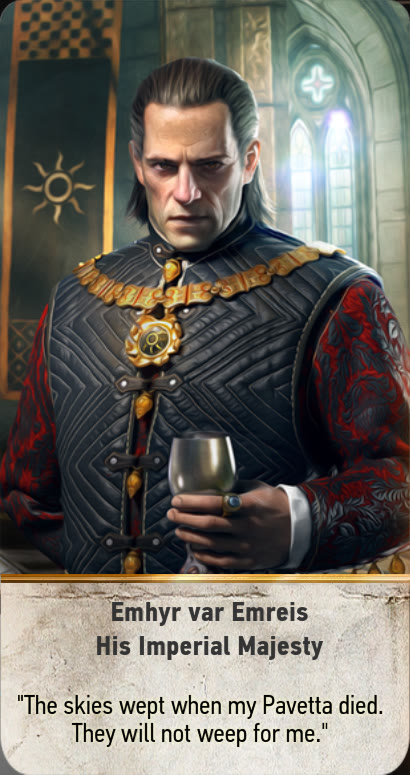
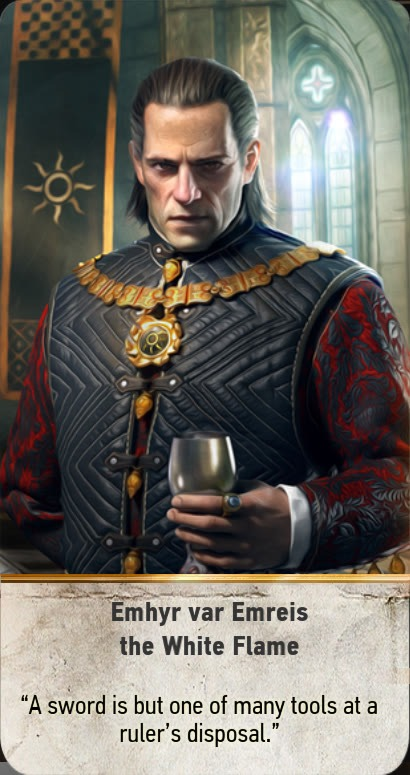
Keep Roach, and fix leader art and card text for Francesca and Emhyr
- Roach and Geralt/Ciri's Roach muster are back: Roach was added to
  Gwent later in the game, so it stays
- Francesca and Emhyr leaders now use the art that belongs to their
  ability in The Witcher 3 (Queen of Dol Blathanna: bronze, the
  Beautiful: copper, Daisy of the Valley: silver, Pureblood Elf: gold;
  Emperor of Nilfgaard: bronze, the White Flame: copper)
- The name and quote printed on the large leader images for Foltest,
  Emhyr, Eredin and Francesca now match the card they belong to

Claude-Session: https://claude.ai/code/session_01CeoM3BEsM39b8W2N7YHogM

diff --git a/cards.js b/cards.js
@@ -3,12 +3,12 @@ var card_dict = JSON.parse(
 + '{ "name": "Mysterious Elf", "id": "142", "deck": "neutral", "row": "close", "strength": "0", "ability": "hero spy", "filename": "mysterious_elf", "count": "1" }'
 + ', { "name": "Decoy", "id": "1", "deck": "special", "row": "", "strength": "", "ability": "decoy", "filename": "decoy", "count": "3" }' 
 + ', { "name": "Biting Frost", "id": "4", "deck": "weather", "row": "", "strength": "", "ability": "frost", "filename": "frost", "count": "3" }'
-+ ', { "name": "Cirilla Fiona Elen Riannon", "id": "139", "deck": "neutral", "row": "close", "strength": "15", "ability": "hero", "filename": "ciri", "count": "1" }'
++ ', { "name": "Cirilla Fiona Elen Riannon", "id": "139", "deck": "neutral", "row": "close", "strength": "15", "ability": "hero muster", "filename": "ciri", "count": "1", "muster": "Roach" }'
 + ', { "name": "Clear Weather", "id": "7", "deck": "weather", "row": "", "strength": "", "ability": "clear", "filename": "clear", "count": "3" }'
 + ', { "name": "Commander\'s Horn", "id": "2", "deck": "special", "row": "", "strength": "", "ability": "horn", "filename": "horn", "count": "3" }'
 + ', { "name": "Dandelion", "id": "11", "deck": "neutral", "row": "close", "strength": "2", "ability": "horn", "filename": "dandelion", "count": "1" }'
 + ', { "name": "Emiel Regis Rohellec Terzieff", "id": "", "deck": "neutral", "row": "close", "strength": "5", "ability": "", "filename": "emiel", "count": "1" }'
-+ ', { "name": "Geralt of Rivia", "id": "138", "deck": "neutral", "row": "close", "strength": "15", "ability": "hero", "filename": "geralt", "count": "1" }'
++ ', { "name": "Geralt of Rivia", "id": "138", "deck": "neutral", "row": "close", "strength": "15", "ability": "hero muster", "filename": "geralt", "count": "1", "muster": "Roach" }'
 + ', { "name": "Impenetrable Fog", "id": "5", "deck": "weather", "row": "", "strength": "", "ability": "fog", "filename": "fog", "count": "3" }'
 + ', { "name": "Scorch", "id": "3", "deck": "special", "row": "", "strength": "", "ability": "scorch", "filename": "scorch", "count": "3" }'
 + ', { "name": "Torrential Rain", "id": "6", "deck": "weather", "row": "", "strength": "", "ability": "rain", "filename": "rain", "count": "3" }'
@@ -57,8 +57,8 @@ var card_dict = JSON.parse(
 + ', { "name": "Trebuchet", "id": "77", "deck": "realms", "row": "siege", "strength": "6", "ability": "", "filename": "trebuchet", "count": "1" }'
 + ', { "name": "Trebuchet", "id": "78", "deck": "realms", "row": "siege", "strength": "6", "ability": "", "filename": "trebuchet_1", "count": "1" }'
 + ', { "name": "Emhyr var Emreis - His Imperial Majesty", "id": "1", "deck": "nilfgaard", "row": "leader", "strength": "", "ability": "emhyr_imperial", "filename": "emhyr_gold", "count": "1" }'
-+ ', { "name": "Emhyr var Emreis - Emperor of Nilfgaard", "id": "2", "deck": "nilfgaard", "row": "leader", "strength": "", "ability": "emhyr_emperor", "filename": "emhyr_copper", "count": "1" }'
-+ ', { "name": "Emhyr var Emreis - the White Flame", "id": "3", "deck": "nilfgaard", "row": "leader", "strength": "", "ability": "emhyr_whiteflame", "filename": "emhyr_bronze", "count": "1" }'
++ ', { "name": "Emhyr var Emreis - Emperor of Nilfgaard", "id": "2", "deck": "nilfgaard", "row": "leader", "strength": "", "ability": "emhyr_emperor", "filename": "emhyr_bronze", "count": "1" }'
++ ', { "name": "Emhyr var Emreis - the White Flame", "id": "3", "deck": "nilfgaard", "row": "leader", "strength": "", "ability": "emhyr_whiteflame", "filename": "emhyr_copper", "count": "1" }'
 + ', { "name": "Emhyr var Emreis - The Relentless", "id": "4", "deck": "nilfgaard", "row": "leader", "strength": "", "ability": "emhyr_relentless", "filename": "emhyr_silver", "count": "1" }'
 + ', { "name": "Emhyr var Emreis - Invader of the North", "id": "", "deck": "nilfgaard", "row": "leader", "strength": "", "ability": "emhyr_invader", "filename": "emhyr_invader_of_the_north", "count": "1" }'
 + ', { "name": "Albrich", "id": "68", "deck": "nilfgaard", "row": "ranged", "strength": "2", "ability": "", "filename": "albrich", "count": "1" }'
@@ -139,10 +139,10 @@ var card_dict = JSON.parse(
 + ', { "name": "Werewolf", "id": "22", "deck": "monsters", "row": "close", "strength": "5", "ability": "", "filename": "werewolf", "count": "1" }'
 + ', { "name": "Wyvern", "id": "40", "deck": "monsters", "row": "ranged", "strength": "2", "ability": "", "filename": "wyvern", "count": "1" }'
 + ', { "name": "Toad", "id": "", "deck": "monsters", "row": "ranged", "strength": "7", "ability": "scorch_r", "filename": "toad", "count": "1" }'
-+ ', { "name": "Francesca Findabair - Queen of Dol Blathanna", "id": "13", "deck": "scoiatael", "row": "leader", "strength": "", "ability": "francesca_queen", "filename": "francesca_silver", "count": "1" }'
-+ ', { "name": "Francesca Findabair - the Beautiful", "id": "14", "deck": "scoiatael", "row": "leader", "strength": "", "ability": "francesca_beautiful", "filename": "francesca_gold", "count": "1" }'
-+ ', { "name": "Francesca Findabair - Daisy of the Valley", "id": "15", "deck": "scoiatael", "row": "leader", "strength": "", "ability": "francesca_daisy", "filename": "francesca_copper", "count": "1" }'
-+ ', { "name": "Francesca Findabair - Pureblood Elf", "id": "16", "deck": "scoiatael", "row": "leader", "strength": "", "ability": "francesca_pureblood", "filename": "francesca_bronze", "count": "1" }'
++ ', { "name": "Francesca Findabair - Queen of Dol Blathanna", "id": "13", "deck": "scoiatael", "row": "leader", "strength": "", "ability": "francesca_queen", "filename": "francesca_bronze", "count": "1" }'
++ ', { "name": "Francesca Findabair - the Beautiful", "id": "14", "deck": "scoiatael", "row": "leader", "strength": "", "ability": "francesca_beautiful", "filename": "francesca_copper", "count": "1" }'
++ ', { "name": "Francesca Findabair - Daisy of the Valley", "id": "15", "deck": "scoiatael", "row": "leader", "strength": "", "ability": "francesca_daisy", "filename": "francesca_silver", "count": "1" }'
++ ', { "name": "Francesca Findabair - Pureblood Elf", "id": "16", "deck": "scoiatael", "row": "leader", "strength": "", "ability": "francesca_pureblood", "filename": "francesca_gold", "count": "1" }'
 + ', { "name": "Francesca Findabair - Hope of the Aen Seidhe", "id": "", "deck": "scoiatael", "row": "leader", "strength": "", "ability": "francesca_hope", "filename": "francesca_hope_of_the_aen_seidhe", "count": "1" }'
 + ', { "name": "Ciaran aep Easnillien", "id": "122", "deck": "scoiatael", "row": "agile", "strength": "3", "ability": "", "filename": "ciaran", "count": "1" }'
 + ', { "name": "Barclay Els", "id": "106", "deck": "scoiatael", "row": "agile", "strength": "6", "ability": "", "filename": "barclay", "count": "1" }'
@@ -214,8 +214,7 @@ var card_dict = JSON.parse(
 + ', { "name": "Crach an Craite", "id": "", "deck": "skellige", "row": "leader", "strength": "", "ability": "crach_an_craite", "filename": "crach_an_craite", "count": "0" }'
 + ', { "name": "King Bran", "id": "", "deck": "skellige", "row": "leader", "strength": "", "ability": "king_bran", "filename": "king_bran", "count": "0" }'
 + ', { "name": "Schirru", "id": "", "deck": "scoiatael", "row": "siege", "strength": "8", "ability": "scorch_s", "filename": "schirru", "count": "1" }'
-// Roach is not a Witcher 3 card; kept with count 0 so the indices of later cards (used by saved decks) stay the same
-+ ', { "name": "Roach", "id": "", "deck": "neutral", "row": "close", "strength": "3", "ability": "", "filename": "roach", "count": "0" }'
++ ', { "name": "Roach", "id": "", "deck": "neutral", "row": "close", "strength": "3", "ability": "", "filename": "roach", "count": "1" }'
 + ', { "name": "Ballista", "id": "", "deck": "realms", "row": "siege", "strength": "6", "ability": "", "filename": "ballista_1", "count": "1" }'
 + ']'
 );

diff --git a/decks.js b/decks.js
@@ -1,8 +1,8 @@
 let premade_deck = [
-	 '{"faction":"realms","leader":24,"cards":[[5,1],[1,3],[2,1],[3,1],[8,1],[33,1],[34,1],[39,1],[51,1],[29,2],[12,1],[14,1],[15,1],[27,1],[17,1],[45,1],[54,1],[55,1],[30,3],[32,1],[41,1],[28,3],[19,3],[47,1],[6,1],[18,1],[49,1],[0,1]]}'
-	,'{"faction":"realms","leader":24,"cards":[[5,1],[1,3],[2,1],[4,1],[9,1],[11,1],[3,1],[8,1],[33,1],[34,1],[39,1],[51,1],[29,2],[12,1],[14,1],[15,1],[27,1],[17,1],[45,1],[54,1],[55,1],[30,3],[32,1],[41,1],[28,3],[19,3],[47,1],[6,1],[18,1],[49,1],[0,1]]}'
-	,'{"faction":"nilfgaard","leader":59,"cards":[[5,1],[1,3],[10,1],[2,1],[4,1],[9,1],[11,1],[3,1],[8,1],[63,1],[64,1],[70,1],[73,1],[75,1],[84,1],[81,1],[14,1],[15,1],[17,1],[90,1],[91,1],[19,3],[88,1],[71,4],[6,1],[18,1],[67,1],[68,1],[0,1],[83,1]]}'
-	,'{"faction":"nilfgaard","leader":58,"cards":[[5,1],[1,3],[10,2],[4,1],[9,1],[11,1],[3,1],[8,1],[63,1],[64,1],[70,1],[73,1],[75,1],[14,1],[15,1],[62,1],[65,1],[69,1],[17,1],[13,1],[90,1],[91,1],[88,1],[71,4],[6,1],[67,1],[68,1],[20,1],[0,1],[83,1]]}'
+	 '{"faction":"realms","leader":24,"cards":[[5,1],[1,3],[2,1],[3,1],[8,1],[33,1],[34,1],[39,1],[51,1],[29,2],[12,1],[14,1],[15,1],[27,1],[17,1],[45,1],[54,1],[55,1],[30,3],[32,1],[41,1],[28,3],[19,3],[47,1],[6,1],[18,1],[49,1],[0,1],[214,1]]}'
+	,'{"faction":"realms","leader":24,"cards":[[5,1],[1,3],[2,1],[4,1],[9,1],[11,1],[3,1],[8,1],[33,1],[34,1],[39,1],[51,1],[29,2],[12,1],[14,1],[15,1],[27,1],[17,1],[45,1],[54,1],[55,1],[30,3],[32,1],[41,1],[28,3],[19,3],[47,1],[6,1],[18,1],[49,1],[0,1],[214,1]]}'
+	,'{"faction":"nilfgaard","leader":59,"cards":[[5,1],[1,3],[10,1],[2,1],[4,1],[9,1],[11,1],[3,1],[8,1],[63,1],[64,1],[70,1],[73,1],[75,1],[84,1],[81,1],[14,1],[15,1],[17,1],[90,1],[91,1],[19,3],[88,1],[71,4],[6,1],[18,1],[67,1],[68,1],[0,1],[83,1],[214,1]]}'
+	,'{"faction":"nilfgaard","leader":58,"cards":[[5,1],[1,3],[10,2],[4,1],[9,1],[11,1],[3,1],[8,1],[63,1],[64,1],[70,1],[73,1],[75,1],[14,1],[15,1],[62,1],[65,1],[69,1],[17,1],[13,1],[90,1],[91,1],[88,1],[71,4],[6,1],[67,1],[68,1],[20,1],[0,1],[83,1],[214,1]]}'
 	,'{"faction":"monsters","leader":93,"cards":[[5,1],[1,3],[10,1],[4,1],[9,1],[11,1],[3,1],[8,1],[124,1],[125,1],[138,1],[14,1],[15,1],[101,1],[105,1],[106,1],[107,1],[17,1],[135,1],[98,1],[99,1],[100,1],[102,1],[19,3],[131,1],[132,1],[133,1],[134,1],[6,1],[18,1],[127,1],[128,1],[129,1],[0,1]]}'
 	,'{"faction":"monsters","leader":94,"cards":[[5,1],[1,1],[10,3],[4,1],[9,1],[11,1],[3,1],[8,1],[125,1],[14,1],[15,1],[101,1],[105,1],[106,1],[107,1],[17,1],[135,1],[98,1],[99,1],[100,1],[19,3],[131,1],[132,1],[133,1],[134,1],[0,1]]}'
 	,'{"faction":"scoiatael","leader":141,"cards":[[5,1],[1,3],[10,1],[2,1],[4,1],[9,1],[11,1],[3,1],[8,1],[167,1],[173,1],[213,1],[14,1],[15,1],[148,1],[17,1],[162,1],[163,1],[164,1],[19,3],[144,1],[151,1],[152,1],[153,1],[6,1],[18,1],[159,1],[160,1],[0,1]]}'
